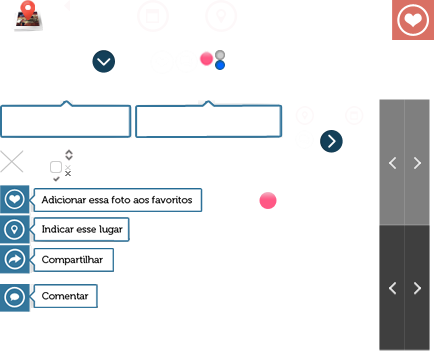
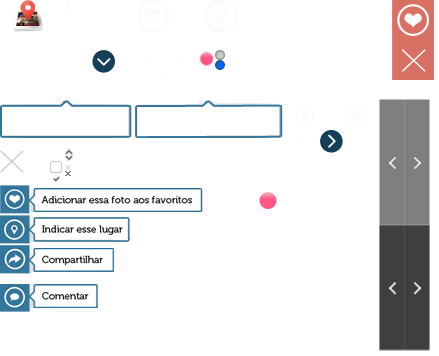
Photos - Galeria

Changed region(s): [[0.8884, 0.0927, 1.0, 0.2472]]

diff --git a/web/bundles/site/css/style.css b/web/bundles/site/css/style.css
@@ -163,6 +163,7 @@ span.ros { background:#FF5885; }
 .photo .info { position:absolute; left:10px; bottom:20px; z-index:2; font-family: 'Museo300-Regular'; font-weight:normal; }
 .photo .info .favorite { width:42px; height:40px; background:url('../images/icons.png') -392px 0px; display:none; }
 .photo .info .this-fav { display:block; }
+.photo .info .this-fav:hover { background:url('../images/icons.png') -392px -40px; }
 .photo .info h2 { font-size:35px; font-weight:normal; }
 .info .more { margin-top:10px; padding-top:5px; font-family: 'Museo500-Regular'; font-size:15px; border-top:1px solid #FFF; display:none; }
 
@@ -183,24 +184,24 @@ span.ros { background:#FF5885; }
 
 /*GALERIA*/
 .shadown { width:100%; height:100%; background:url('../images/alpha.png'); position:fixed; top:0; left:0; z-index:5; display:none; }
-.shadown .box { background:#FFF; position:absolute; top:50%; left:50%; display:none; }
-.shadown .box .content { width:425px; margin:12px auto 0 auto; }
-.shadown .box .content .img { width:100%; height:425px; }
-.shadown .box .content .img img { width:100%; height:425px; }
-.shadown .box .content .author { width:100%; margin-top:10px; font-size:10px; color:#333; }
-.shadown .box .content .author img { float:left; margin-right:5px; }
-.shadown .box .content .author h3 { font-size:12px; font-weight:normal; }
-.shadown .box .slide-eve-next, .shadown .box .slide-eve-prev { width:25px; height:125px; background-image:url('../images/icons.png'); position:absolute; top:50%; margin-top:-62px; cursor:pointer; }
-.shadown .box .slide-eve-prev { background-position:-380px -100px; left:-35px; }
-.shadown .box .slide-eve-prev:hover { background-position:-380px -225px; }
-.shadown .box .slide-eve-next { background-position:-405px -100px; right:-35px; }
-.shadown .box .slide-eve-next:hover { background-position:-405px -225px; }
-.shadown .box .slide-close { width:24px; height:23px; background:url('../images/icons.png') 0px -150px no-repeat; position:absolute; top:0; right:-35px; cursor:pointer; }
-.shadown .box .slide-close:hover { background-position:-24px -150px; }
-.shadown .box .slide-icos { width:29px; height:29px; background:url('../images/icons.png') no-repeat; position:absolute; left:460px; cursor:pointer; }
-.shadown .box .slide-fav { top:30px; background-position:-0px -185px; }
-.shadown .box .slide-lug { top:60px; background-position:-0px -215px; }
-.shadown .box .slide-com { top:90px; background-position:-0px -245px; }
+.shadown .gallery-box { width:100%; height:100%; overflow:auto; position:fixed; top:0; left:0; }
+.shadown .gallery-box .box { width:600px; max-width:600px; display:table; margin-top:10px; margin-left:-300px; padding:10px; background:#FFF; position:absolute; top:0; left:50%; }
+.shadown .gallery-box .box .content { width:100%; }
+.shadown .gallery-box .box .content img { width:100%; height:600px; }
+.shadown .gallery-box .box .content .author { width:100%; margin-top:10px; font-size:10px; color:#333; }
+.shadown .gallery-box .box .content .author img { width:40px; height:40px; float:left; margin-right:5px; }
+.shadown .gallery-box .box .content .author h3 { font-size:12px; font-weight:normal; }
+.shadown .gallery-box .box .slide-eve-next, .shadown .gallery-box .box .slide-eve-prev { width:25px; height:125px; background-image:url('../images/icons.png'); position:fixed; top:250px; cursor:pointer; }
+.shadown .gallery-box .box .slide-eve-prev { background-position:-380px -100px; left:50%; margin-left:-350px; }
+.shadown .gallery-box .box .slide-eve-prev:hover { background-position:-380px -225px; }
+.shadown .gallery-box .box .slide-eve-next { background-position:-405px -100px; right:50%; margin-right:-350px; }
+.shadown .gallery-box .box .slide-eve-next:hover { background-position:-405px -225px; }
+.shadown .gallery-box .box .content .slide-close { width:24px; height:23px; background:url('../images/icons.png') 0px -150px no-repeat; position:fixed; display:block; top:10px; right:-35px; cursor:pointer; }
+.shadown .gallery-box .box .content .slide-close:hover { background-position:-24px -150px; }
+.shadown .gallery-box .box .content .slide-icos { width:29px; height:29px; background:url('../images/icons.png') no-repeat; position:fixed; right:-35px; z-index:1000; cursor:pointer; }
+.shadown .gallery-box .slide-fav { top:40px; background-position:-0px -185px; }
+.shadown .gallery-box .slide-lug { top:70px; background-position:-0px -215px; }
+.shadown .gallery-box .slide-com { top:100px; background-position:-0px -245px; }
 
 .shadown .box-criar-evento { width:310px; height:320px; background:#FFF; position:absolute; top:50%; left:50%; margin:-160px auto auto -155px; }
 .shadown .box-criar-evento .space { margin:10px; }
@@ -237,7 +238,7 @@ select { color:#999; font-family:'Museo500-Regular'; font-size:12px; font-weight
 .location-info .content span { font-size:13px; font-weight:normal; }
 .location-info .content .divide { clear:both; width:345px; height:1px; margin:15px 0 10px 0; border-bottom:1px solid #CCC; }
 
-.comment-ico { width:53px; height:50px; position:absolute; z-index:1; top:220px; left:20px; line-height:50px; background-color:#31749B; display:block; cursor:pointer; }
+.comment-ico { width:53px; height:50px; position:fixed; z-index:1; top:220px; left:20px; line-height:50px; background-color:#31749B; display:block; cursor:pointer; }
 .comment-ico span { width:23px; height:50px; display:block; margin: 14px 0 0 14px; background:url('../images/icons.png') -175px -50px no-repeat; }
 .comment-ico:hover { background-color:#296689; }
 

diff --git a/web/bundles/site/js/functions.js b/web/bundles/site/js/functions.js
@@ -351,15 +351,15 @@ $a(document).ready(function(){
 	}
 	function ajustImage(heiCap){
 		var widBox = 0, heiBox = 0;
-		if($a(window).height() > 500){
-			heiBox = $a("body").height() - 100;
-			widBox = heiBox - 50;
-			$a(box + " .content").css({ width : widBox - 25 });
-			$a(box + " .content .img").css({ height : widBox - 25 });
-			$a(box + " .content .img img").css({ height : widBox - 25 });
-			$a(".slide-icos").css({ left : widBox + 10 });
-			$a(box).css({ width : widBox, height: heiBox + heiCap, marginTop: -(heiBox / 2), marginLeft : -(widBox / 2) });
-		}
+		// if($a(window).height() > 500){
+			// heiBox = $a("body").height() - 100;
+			// widBox = heiBox - 50;
+			// $a(box + " .content").css({ width : widBox - 25 });
+			// $a(box + " .content .img").css({ height : widBox - 25 });
+			// $a(box + " .content .img img").css({ height : widBox - 25 });
+			// $a(".slide-icos").css({ left : widBox + 10 });
+			// $a(box).css({ width : widBox, height: heiBox + heiCap, marginTop: -(heiBox / 2), marginLeft : -(widBox / 2) });
+		// }
 	}
 	$a(document).delegate(".slide-eve-prev", "click", function(){
 		$a(pic[atual-1]).click();
